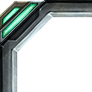
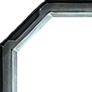
style: new simple design

Changed region(s): [[0.0, 0.0, 0.5, 0.4783]]

diff --git a/apps/web-client/src/app/shared/components/modal.component.ts b/apps/web-client/src/app/shared/components/modal.component.ts
@@ -4,26 +4,6 @@ import { Component, EventEmitter, HostBinding, Output } from '@angular/core';
 @Component({
   selector: 'pg-modal',
   template: `
-    <!-- top detail -->
-    <div
-      class="bp-skin-metal-top-detail absolute -top-3 left-0 right-0 mx-auto z-20"
-    ></div>
-
-    <!-- left detail -->
-    <div
-      class="bp-skin-metal-left-detail absolute -left-20 top-0 bottom-0 my-auto z-40"
-    ></div>
-
-    <!-- right detail -->
-    <div
-      class="bp-skin-metal-right-detail absolute -right-20 top-0 bottom-0 my-auto z-40"
-    ></div>
-
-    <!-- bottom detail -->
-    <div
-      class="bp-skin-metal-bottom-detail absolute -bottom-2.5 left-0 right-0 mx-auto z-50"
-    ></div>
-
     <!-- close button -->
     <button
       class="bp-button-close-futuristic outline-0 absolute right-2.5 top-5 z-40"
@@ -32,58 +12,30 @@ import { Component, EventEmitter, HostBinding, Output } from '@angular/core';
 
     <!-- outer corners-->
     <div
-      class="bp-skin-outer-metal-corner-left-top absolute -left-10 -top-8 z-30"
+      class="bp-skin-outer-metal-corner-left-top absolute -left-5 -top-4 z-30"
     ></div>
     <div
-      class="bp-skin-outer-metal-corner-right-top absolute -right-10 -top-8 z-30"
+      class="bp-skin-outer-metal-corner-right-top absolute -right-5 -top-4 z-30"
     ></div>
     <div
-      class="bp-skin-outer-metal-corner-left-bottom absolute -left-10 -bottom-8 z-50"
+      class="bp-skin-outer-metal-corner-left-bottom absolute -left-5 -bottom-4 z-50"
     ></div>
     <div
-      class="bp-skin-outer-metal-corner-right-bottom absolute -right-10 -bottom-8 z-50"
+      class="bp-skin-outer-metal-corner-right-bottom absolute -right-5 -bottom-4 z-50"
     ></div>
 
     <!-- outer borders -->
     <div
-      class="bp-skin-outer-metal-border-right absolute -right-10 h-5/6 top-0 bottom-0 my-auto mx-0 z-50"
+      class="bp-skin-outer-metal-border-right absolute -right-5 h-5/6 top-0 bottom-0 my-auto mx-0 z-50"
     ></div>
     <div
-      class="bp-skin-outer-metal-border-left absolute -left-10 h-5/6 top-0 bottom-0 my-auto mx-0 z-50"
+      class="bp-skin-outer-metal-border-left absolute -left-5 h-5/6 top-0 bottom-0 my-auto mx-0 z-50"
     ></div>
     <div
-      class="bp-skin-outer-metal-border-bottom absolute -bottom-8 w-5/6 left-0 right-0 mx-auto my-0 z-50"
+      class="bp-skin-outer-metal-border-bottom absolute -bottom-4 w-5/6 left-0 right-0 mx-auto my-0 z-50"
     ></div>
     <div
-      class="bp-skin-outer-metal-border-top absolute -top-8 w-5/6 left-0 right-0 mx-auto my-0 z-20"
-    ></div>
-
-    <!-- inner corners -->
-    <div
-      class="bp-skin-inner-metal-corner-left-top absolute -left-8 -top-6 z-10"
-    ></div>
-    <div
-      class="bp-skin-inner-metal-corner-right-top absolute -right-8 -top-6 z-10"
-    ></div>
-    <div
-      class="bp-skin-inner-metal-corner-left-bottom absolute -left-8 -bottom-6 z-40"
-    ></div>
-    <div
-      class="bp-skin-inner-metal-corner-right-bottom absolute -right-8 -bottom-6 z-40"
-    ></div>
-
-    <!-- inner borders -->
-    <div
-      class="bp-skin-inner-metal-border-right absolute -right-6 h-3/5 top-0 bottom-0 my-auto mx-0"
-    ></div>
-    <div
-      class="bp-skin-inner-metal-border-left absolute -left-6 h-3/5 top-0 bottom-0 my-auto mx-0"
-    ></div>
-    <div
-      class="bp-skin-inner-metal-border-bottom absolute -bottom-4 w-3/5 left-0 right-0 mx-auto my-0"
-    ></div>
-    <div
-      class="bp-skin-inner-metal-border-top absolute -top-4 w-3/5 left-0 right-0 mx-auto my-0"
+      class="bp-skin-outer-metal-border-top absolute -top-4 w-5/6 left-0 right-0 mx-auto my-0 z-20"
     ></div>
 
     <!-- modal content -->
@@ -96,7 +48,7 @@ import { Component, EventEmitter, HostBinding, Output } from '@angular/core';
 })
 export class ModalComponent {
   @HostBinding('class') class =
-    'flex bp-bg-futuristic shadow-xl relative min-h-[350px] min-w-[450px] px-12 pt-14 box-border';
+    'flex bp-bg-futuristic shadow-xl relative min-h-[350px] min-w-[450px] px-12 pt-14 box-border rounded-[35px]';
 
   @Output() pgCloseModal = new EventEmitter();
 

diff --git a/apps/web-client/src/app/board/sections/center-dock-section.component.ts b/apps/web-client/src/app/board/sections/center-dock-section.component.ts
@@ -12,6 +12,7 @@ import {
   SlotHotkeyPipe,
   SquareButtonComponent,
 } from '../../shared';
+import { DockComponent } from '../../shared/components/dock.component';
 import { SlotTooltipDirective } from '../components';
 import { BoardStore } from '../stores';
 
@@ -24,29 +25,11 @@ interface HotKey {
 @Component({
   selector: 'pg-center-dock-section',
   template: `
-    <div
-      class="bp-bg-futuristic flex justify-center items-center relative"
+    <pg-dock
+      class="flex justify-center items-center"
       *ngrxLet="slots$; let slots"
       style="width: 615px; height: 136px"
     >
-      <div class="flex">
-        <div
-          class="bp-skin-metal-corner-left-top absolute z-30"
-          style="left: -16px; top: -14px;"
-        ></div>
-        <div
-          class="bp-skin-metal-border-top flex-1 z-20"
-          style="width: 500px; position: absolute; top: -14px; left: 55px;"
-        ></div>
-        <div class="bp-skin-dock-detail-center absolute"></div>
-        <div
-          class="bp-skin-metal-corner-right-top absolute z-30"
-          style="right: -16px; top: -14px;"
-        ></div>
-      </div>
-
-      <div class="bp-skin-dock-detail-left absolute z-40 -left-10"></div>
-      <div class="bp-skin-dock-detail-right absolute z-40 -right-11"></div>
       <ng-container
         *ngrxLet="hotkeys$; let hotkeys"
         pgKeyboardListener
@@ -103,7 +86,7 @@ interface HotKey {
           </div>
         </div>
       </ng-container>
-    </div>
+    </pg-dock>
   `,
   standalone: true,
   imports: [
@@ -116,6 +99,7 @@ interface HotKey {
     DefaultImageDirective,
     KeyboardListenerDirective,
     SlotTooltipDirective,
+    DockComponent,
   ],
   styles: [
     `

diff --git a/apps/web-client/src/app/shared/components/dock.component.ts b/apps/web-client/src/app/shared/components/dock.component.ts
@@ -1,0 +1,39 @@
+import { CommonModule } from '@angular/common';
+import { Component, HostBinding } from '@angular/core';
+
+export type DockDirection = 'right' | 'left';
+
+@Component({
+  selector: 'pg-dock',
+  template: `
+    <!-- corners-->
+    <div
+      class="bp-skin-outer-metal-corner-left-top absolute -left-5 -top-4 z-30"
+    ></div>
+    <div
+      class="bp-skin-outer-metal-corner-right-top absolute -right-5 -top-4 z-30"
+    ></div>
+
+    <!-- borders -->
+    <div
+      class="bp-skin-outer-metal-border-top absolute -top-4 w-5/6 left-0 right-0 mx-auto my-0 z-20"
+    ></div>
+    <div
+      class="bp-skin-outer-metal-border-right absolute -right-5 h-5/6 top-16 bottom-0 my-auto mx-0 z-20"
+    ></div>
+    <div
+      class="bp-skin-outer-metal-border-left absolute -left-5 h-5/6 top-16 bottom-0 my-auto mx-0 z-20"
+    ></div>
+
+    <!-- modal content -->
+    <div class="z-50 w-full relative">
+      <ng-content></ng-content>
+    </div>
+  `,
+  standalone: true,
+  imports: [CommonModule],
+})
+export class DockComponent {
+  @HostBinding('class') class =
+    'p-10 bp-bg-futuristic relative rounded-t-[35px]';
+}

diff --git a/apps/web-client/src/app/shared/components/corner-dock.component.ts b/apps/web-client/src/app/shared/components/corner-dock.component.ts
@@ -11,10 +11,10 @@ export type DockDirection = 'right' | 'left';
     <div
       class="bp-skin-metal-corner-{{
         oppositeDirection
-      }}-top absolute -top-2.5 -{{ oppositeDirection }}-2.5 z-20"
+      }}-top absolute -top-4 -{{ oppositeDirection }}-4 z-20"
     ></div>
     <div
-      class="bp-skin-metal-border-top absolute -top-2.5 w-5/6 {{
+      class="bp-skin-metal-border-top absolute -top-4 w-5/6 {{
         oppositeDirection
       }}-16 {{ direction }}-0 mx-auto my-0 z-10"
     ></div>
@@ -26,7 +26,8 @@ export type DockDirection = 'right' | 'left';
   imports: [CommonModule],
 })
 export class CornerDockComponent {
-  @HostBinding('class') class = 'block bp-bg-futuristic relative';
+  @HostBinding('class') class =
+    'block bp-bg-futuristic relative rounded-tr-[35px]';
 
   direction: DockDirection = 'right';
   oppositeDirection: DockDirection = 'left';

diff --git a/apps/web-client/src/app/board/pages/board-page.component.ts b/apps/web-client/src/app/board/pages/board-page.component.ts
@@ -63,7 +63,7 @@ import { ActiveStore, BoardStore } from '../stores';
 
     <pg-center-dock-section
       *ngIf="(selected$ | ngrxPush) === null"
-      class="fixed bottom-0 -translate-x-1/2 left-1/2"
+      class="fixed -bottom-5 -translate-x-1/2 left-1/2"
     ></pg-center-dock-section>
 
     <pg-instruction-document-dock
